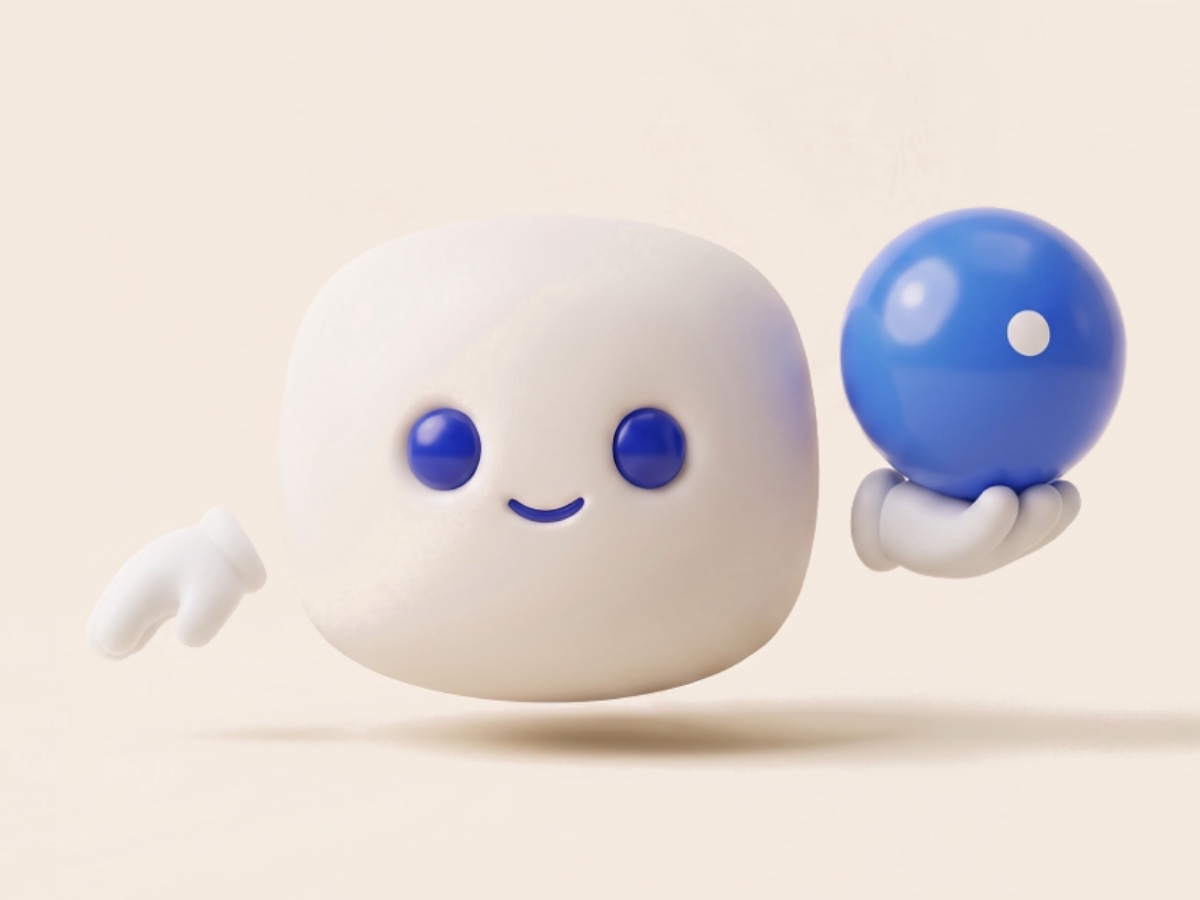
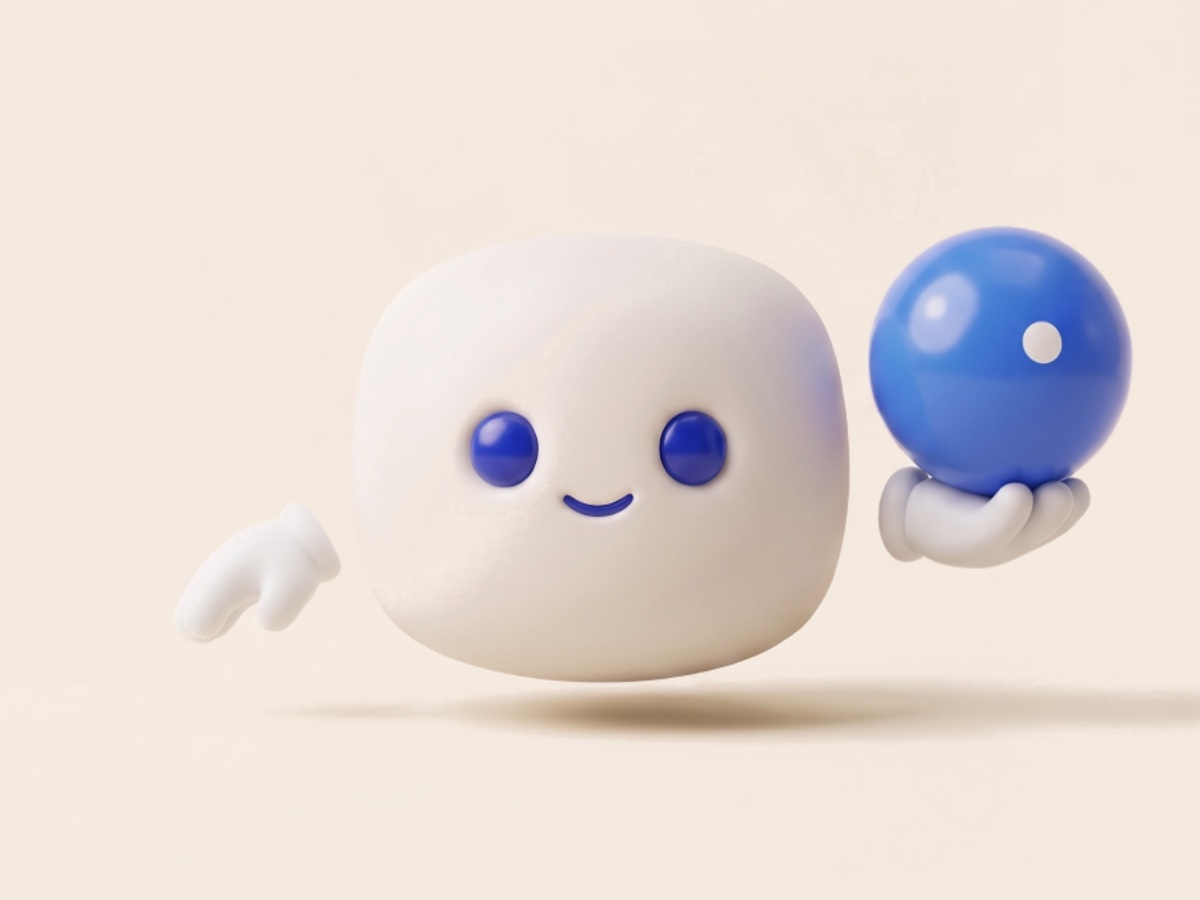
demo-site: fallback stills re-cropped with cream to the right of the props; narrower side fade

diff --git a/demo-site/index.html b/demo-site/index.html
@@ -185,8 +185,8 @@ nav .btn{height:44px;padding:0 20px;font-size:16px}
    rounded frame and inset shadow and feather the edges into the page */
 .hero-video.still{background:transparent;box-shadow:none;border-radius:0;overflow:visible}
 .hero-video.still .hero-still img{
-  -webkit-mask-image:linear-gradient(to right,transparent,#000 12%,#000 88%,transparent),linear-gradient(to bottom,transparent,#000 12%,#000 88%,transparent);
-          mask-image:linear-gradient(to right,transparent,#000 12%,#000 88%,transparent),linear-gradient(to bottom,transparent,#000 12%,#000 88%,transparent);
+  -webkit-mask-image:linear-gradient(to right,transparent,#000 7%,#000 93%,transparent),linear-gradient(to bottom,transparent,#000 9%,#000 91%,transparent);
+          mask-image:linear-gradient(to right,transparent,#000 7%,#000 93%,transparent),linear-gradient(to bottom,transparent,#000 9%,#000 91%,transparent);
   -webkit-mask-composite:source-in;mask-composite:intersect;
 }
 .hero-mark{--size:clamp(96px,10vw,140px);display:block;margin:0 auto 8px;line-height:0}
